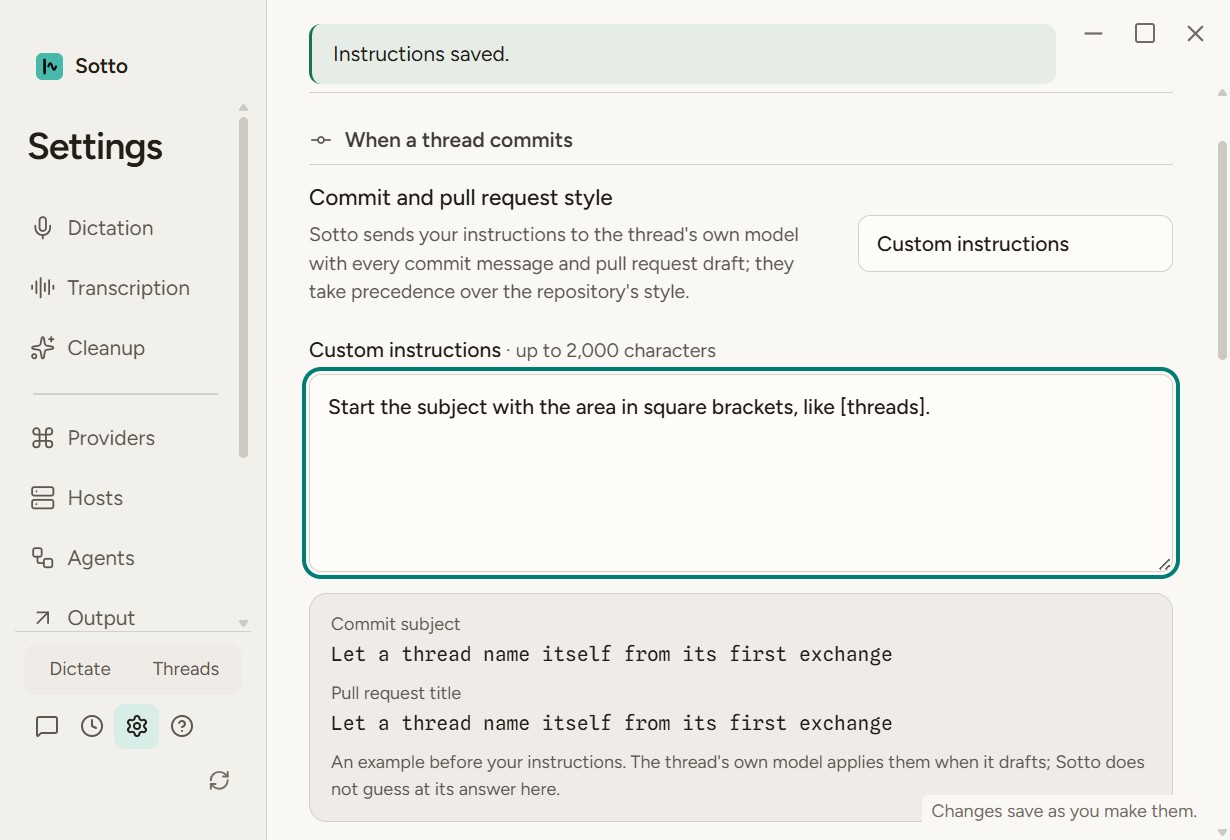
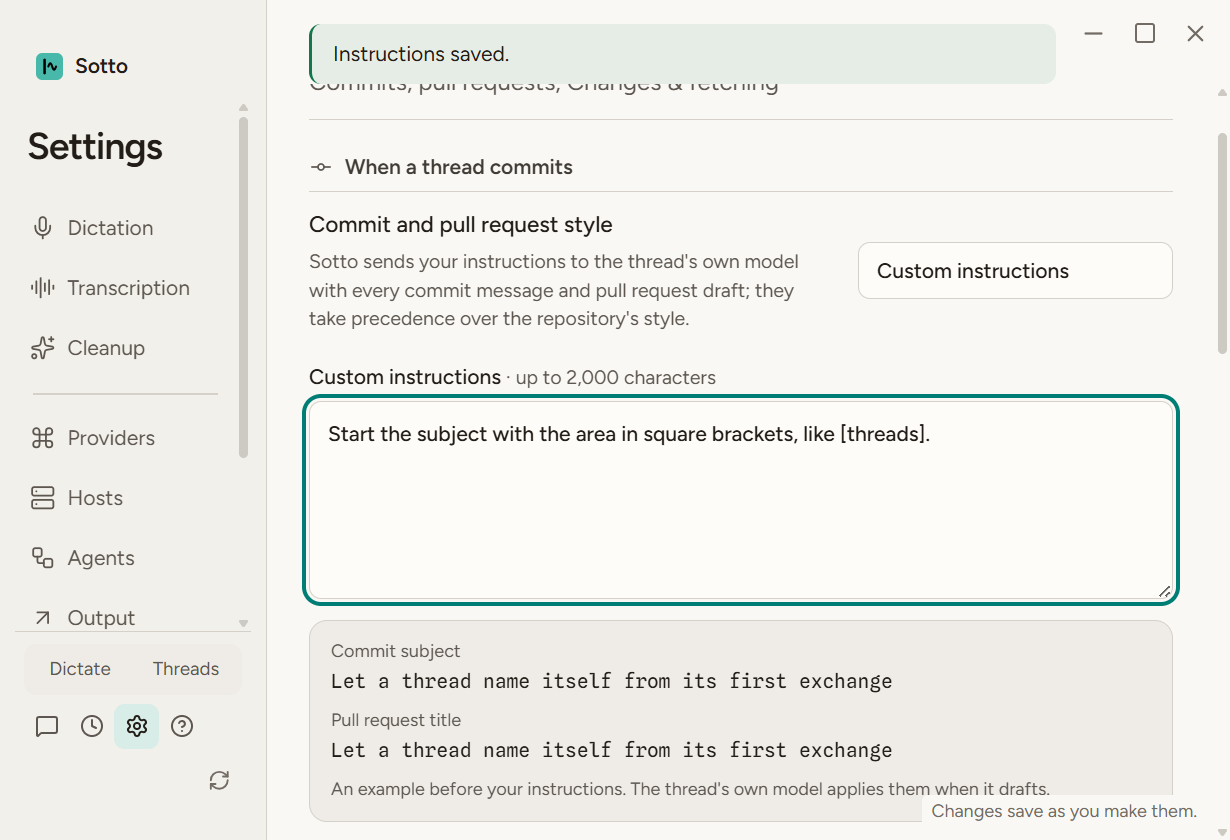
Fix what the review of the Git section found
The Custom instructions field's accessible description now reads "up to 2,000 characters"
without the separator, and the example's note under Custom ends at what the thread's own model
does rather than commenting on the screen. The textarea no longer declares a height and line
height that the shared Settings stylesheet overrides. ADR-0027's first consequence now says the
fetch interval has moved to Settings -> Git. The provider selection spec's list of Settings
sections was stale on main (no Hosts) and now names every section, Git included. The two
Custom-state screenshots the verification note cites show the new note.

diff --git a/src/renderer/src/features/settings/GitSettings.tsx b/src/renderer/src/features/settings/GitSettings.tsx
@@ -91,7 +91,7 @@ export function writingExample(style: GitWritingStyle, instructions: string): Wr
   const note = style === 'repository'
     ? 'An example. Each repository\'s recent commits and AGENTS.md set the real style.'
     : instructions.trim()
-      ? 'An example before your instructions. The thread\'s own model applies them when it drafts; Sotto does not guess at its answer here.'
+      ? 'An example before your instructions. The thread\'s own model applies them when it drafts.'
       : 'Nothing written yet, so drafts follow Repository conventions, like this example.'
   return { commit: PLAIN_EXAMPLE, pullRequest: PLAIN_EXAMPLE, note }
 }
@@ -138,7 +138,7 @@ function WritingStyle({ settings, onSave, description }: GitSettingsProps & { re
       </Select>
     </Field>
     {!custom ? null : <div className="git-settings__custom">
-      <p className="git-settings__custom-label"><label htmlFor={fieldId}>Custom instructions</label> <span id={limitId}>· up to {MAX_CHARACTERS} characters</span></p>
+      <p className="git-settings__custom-label"><label htmlFor={fieldId}>Custom instructions</label> · <span id={limitId}>up to {MAX_CHARACTERS} characters</span></p>
       <textarea id={fieldId} className="tt-input tt-focusable" rows={4} maxLength={GIT_WRITING_INSTRUCTIONS_MAX_CHARACTERS} value={text} aria-describedby={limitId}
         placeholder="Start the subject with the area in square brackets..."
         onChange={event => {

diff --git a/tests/e2e/native-provider-selection.spec.ts b/tests/e2e/native-provider-selection.spec.ts
@@ -26,10 +26,10 @@ test('provider configuration and coordinator choices have separate settings', as
     await expect(panel.getByRole('combobox', { name: 'Reasoning account', exact: true })).toHaveCount(0)
     const before = await page.evaluate(async () => (await window.sotto!.agents!.get()).configuration)
     const nav = page.getByRole('tablist', { name: 'Settings sections' })
-    await expect(nav.getByRole('tab')).toHaveText(['Dictation', 'Transcription', 'Cleanup', 'Providers', 'Agents', 'Output', 'Appearance', 'Application'])
+    await expect(nav.getByRole('tab')).toHaveText(['Dictation', 'Transcription', 'Cleanup', 'Providers', 'Hosts', 'Agents', 'Output', 'Appearance', 'Application', 'Git'])
     const sections = page.locator('.settings-form > [role="tabpanel"]')
     await expect(sections.nth(3)).toHaveAttribute('id', 'settings-providers')
-    await expect(sections.nth(4)).toHaveAttribute('id', 'settings-agents')
+    await expect(sections.nth(5)).toHaveAttribute('id', 'settings-agents')
     await page.getByRole('tablist', { name: 'Settings sections' }).getByRole('tab', { name: 'Agents', exact: true }).click()
     await expect(page.getByRole('tabpanel', { name: 'Agents', exact: true })).toBeVisible()
     await expect(panel).toBeHidden()

diff --git a/tests/unit/renderer/settingsView.test.tsx b/tests/unit/renderer/settingsView.test.tsx
@@ -274,10 +274,10 @@ describe('SettingsView', () => {
     rendered.rerender(<SettingsView {...props} settings={{ ...props.settings, gitWritingStyle: 'custom' }} />)
     expect(style).toHaveAccessibleDescription(/they take precedence over the repository's style/u)
     const instructions = screen.getByRole('textbox', { name: 'Custom instructions' })
-    expect(instructions).toHaveAccessibleDescription('· up to 2,000 characters')
+    expect(instructions).toHaveAccessibleDescription('up to 2,000 characters')
     expect(screen.getByRole('group', { name: 'Example' })).toHaveTextContent(/Nothing written yet/u)
     await user.type(instructions, 'Subjects in the past tense.')
-    // The example follows the text as typed, and says it does not guess at the model's answer.
+    // The example follows the text as typed, and says the thread's own model applies the instructions.
     expect(screen.getByRole('group', { name: 'Example' })).toHaveTextContent(/An example before your instructions/u)
     // No leaving the field needed: the pause saves it.
     await waitFor(() => expect(update).toHaveBeenCalledWith({ gitWritingInstructions: 'Subjects in the past tense.' }))

diff --git a/src/renderer/src/features/settings/gitSettings.css b/src/renderer/src/features/settings/gitSettings.css
@@ -8,7 +8,7 @@
 .settings-view .git-settings__custom { margin-top: 14px; }
 .settings-view .git-settings__custom-label { margin: 0 0 6px; color: var(--tt-text-muted); font-size: 13px; }
 .settings-view .git-settings__custom-label > label { color: var(--tt-text); font-size: 14px; font-weight: 500; }
-.settings-view .git-settings__custom > textarea.tt-input { display: block; width: 100%; min-height: 104px; padding: 10px 12px; resize: vertical; border: 1px solid var(--tt-hairline); border-radius: 8px; background: var(--tt-field); color: var(--tt-text); font-size: 14px; line-height: 1.5; }
+.settings-view .git-settings__custom > textarea.tt-input { display: block; width: 100%; padding: 10px 12px; resize: vertical; border: 1px solid var(--tt-hairline); border-radius: 8px; background: var(--tt-field); color: var(--tt-text); font-size: 14px; }
 .settings-view .git-settings__custom > textarea.tt-input::placeholder { color: var(--tt-text-muted); opacity: 1; }
 
 .settings-view .git-settings__example { margin-top: 14px; padding: 12px 14px; border: 1px solid var(--tt-hairline); border-radius: 12px; background: var(--tt-surface-sunken); }

diff --git a/docs/adr/0027-git-the-way-t3-code-does-it.md b/docs/adr/0027-git-the-way-t3-code-does-it.md
@@ -23,7 +23,7 @@ Sotto builds T3's Git model piece for piece, in the order the plan's tickets giv
 
 ## Consequences
 
-`gitFetchIntervalSeconds` is a new setting on the IPC patch allow-list, with a control under Settings → Application. `AgentWorktree` gains `git`, a `GitStatus` from `src/shared/gitStatus.ts`. The README's privacy section names the fetch and the pull request lookups. `ThreadWorktrees` still switches nothing on its own; the status reader reads and fetches and changes no ref of the user's.
+`gitFetchIntervalSeconds` is a new setting on the IPC patch allow-list, with a control under Settings → Application (since moved to Settings → Git, decision 7 of the #271 amendment). `AgentWorktree` gains `git`, a `GitStatus` from `src/shared/gitStatus.ts`. The README's privacy section names the fetch and the pull request lookups. `ThreadWorktrees` still switches nothing on its own; the status reader reads and fetches and changes no ref of the user's.
 
 The later tickets amend this record where they decide something rather than follow it: the Changes rebuild (#268) when staging goes, the actions (#265) when the remote command list grows, the settings (#271) when Proactive panels land.
 
